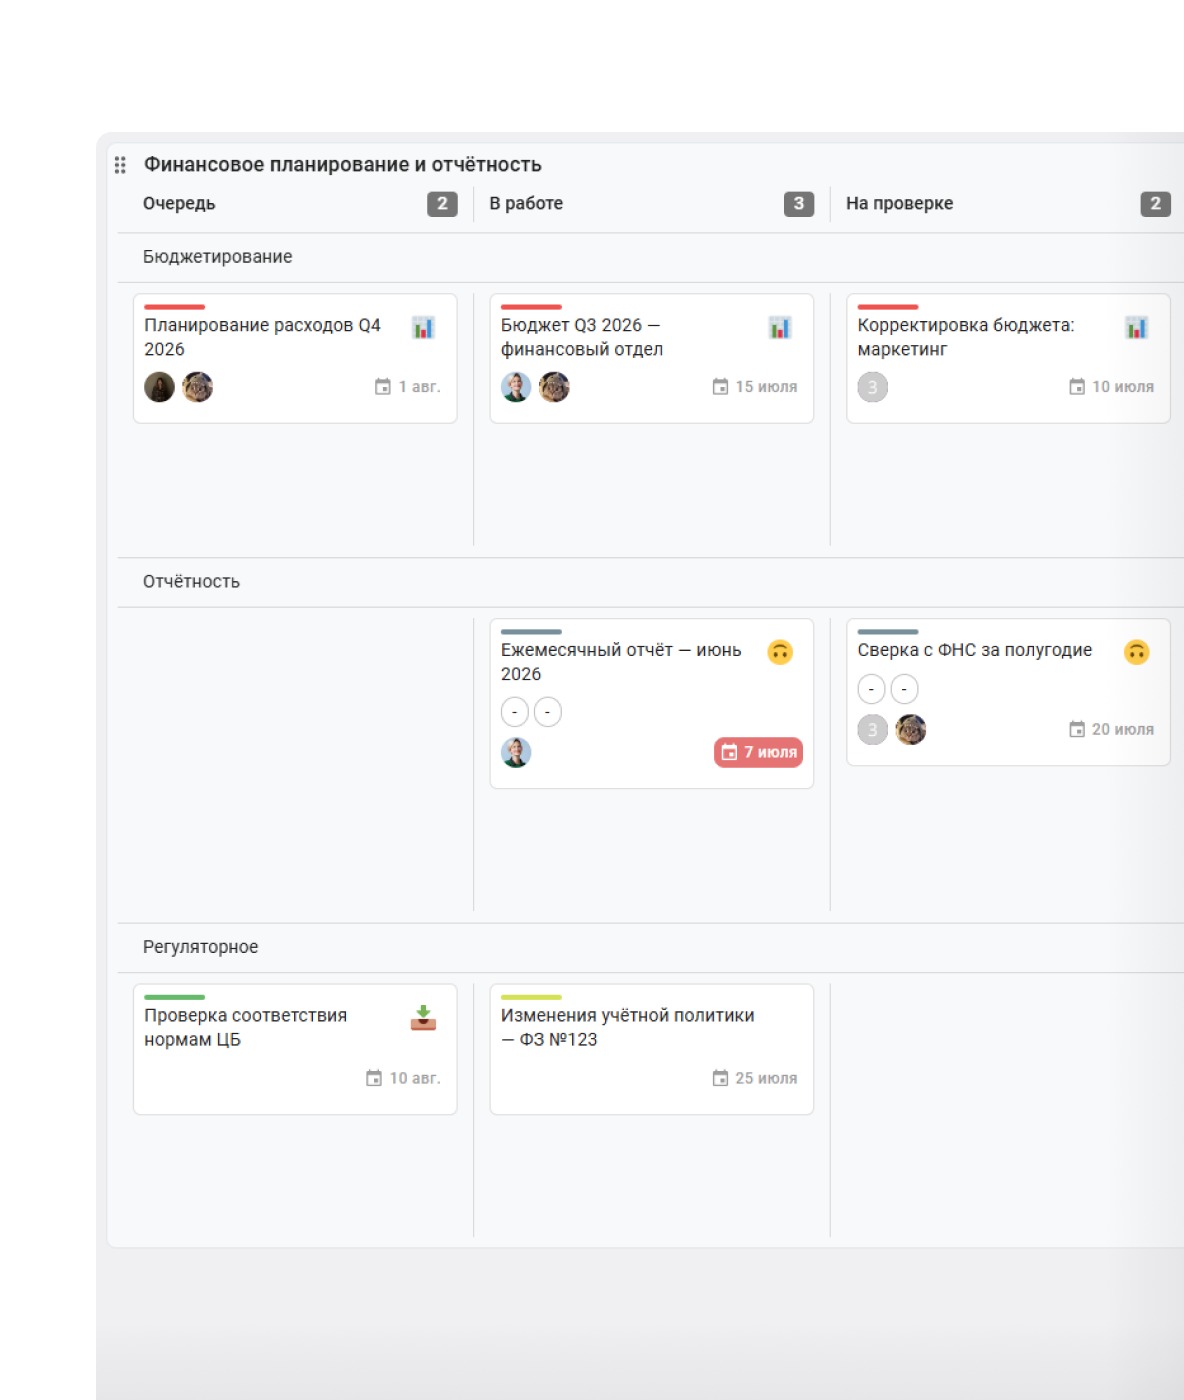
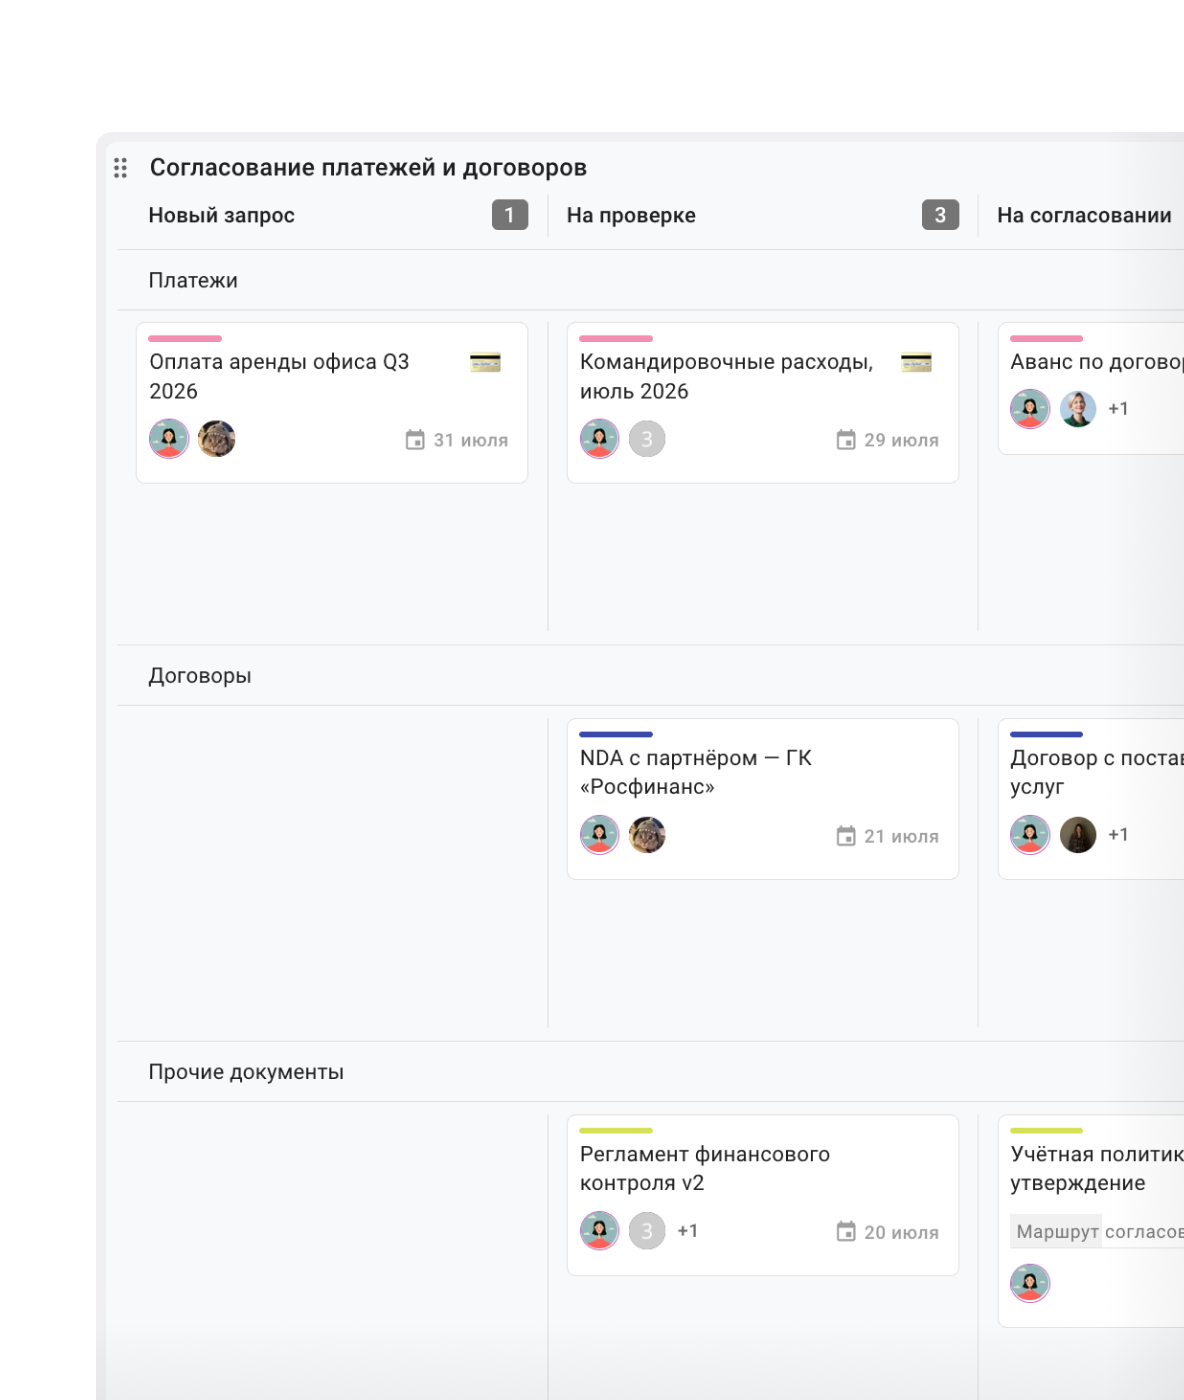
Кайтен для финансов и банков: CTA-блок, контейнер 1216, обновление картинок аккордеона
- добавлен CTA-блок «Покажем Кайтен на ваших процессах» с планшет-мокапом
- кнопки под разделом подразделений, ширина блоков на десктопе 1216
- обновлены assets/accordion/1.png и 4.png
- множество мелких правок вёрстки (отступы, переносы, скругления, адаптив)

diff --git a/Кайтен для финансов и банков/index.html b/Кайтен для финансов и банков/index.html
@@ -7,7 +7,7 @@
 <link rel="preconnect" href="https://fonts.googleapis.com">
 <link rel="preconnect" href="https://fonts.gstatic.com" crossorigin>
 <link rel="stylesheet" href="https://fonts.googleapis.com/css2?family=Roboto:wght@400;500;600&display=swap">
-<link rel="stylesheet" href="styles.css?v=131">
+<link rel="stylesheet" href="styles.css?v=153">
 </head>
 <body>
 
@@ -97,7 +97,7 @@
             </div>
             <div class="col">
               <div class="card">
-                <div class="ct">Корректировка бюджета — маркетинг</div>
+                <div class="ct">Бюджет на&nbsp;продвижение</div>
                 <div class="tags"><span class="tag t-urg">Маркетинг</span></div>
                 <div class="foot"><span class="avs"><span class="av" style="background:#b88ac9"></span></span><span class="due"><svg width="13" height="13" viewBox="0 0 24 24" fill="none" stroke="currentColor" stroke-width="2" stroke-linecap="round" stroke-linejoin="round"><path d="M8 2v4M16 2v4"/><rect x="3" y="4" width="18" height="18" rx="2"/><path d="M3 10h18"/></svg>15&nbsp;июля</span></div>
               </div>
@@ -138,7 +138,7 @@
             <div class="col"></div>
           </div>
           <div class="lane lane--foot">
-            <span class="lnm">Регуляторика</span><span class="cnt2">2</span>
+            <span class="lnm">Регулярное</span><span class="cnt2">2</span>
             <span class="chev"><svg width="18" height="18" viewBox="0 0 24 24" fill="none" stroke="currentColor" stroke-width="2" stroke-linecap="round" stroke-linejoin="round"><path d="M18 15l-6-6-6 6"/></svg></span>
           </div>
           <div class="lanebody">
@@ -223,7 +223,7 @@
       </div>
       <div class="acc-item open">
         <button class="acc-head" type="button"><span class="acc-title">Статус задач и&nbsp;согласований обновляется в&nbsp;реальном времени</span><span class="acc-ic" aria-hidden="true"><svg viewBox="0 0 24 24" fill="none" stroke="currentColor" stroke-width="2" stroke-linecap="round" stroke-linejoin="round"><path d="M6 9l6 6 6-6"/></svg></span></button>
-        <div class="acc-body"><p>Открыли нужное пространство — сразу видно, что&nbsp;в&nbsp;работе, что&nbsp;ждет подписи, что&nbsp;зависло. Статус обновляется, когда&nbsp;двигается работа, а&nbsp;не&nbsp;когда&nbsp;вы&nbsp;спрашиваете</p><img class="acc-bmedia" src="assets/accordion/1.png" alt="" loading="lazy"></div>
+        <div class="acc-body"><p>Открыли нужное пространство — сразу видно, что&nbsp;в&nbsp;работе, что&nbsp;ждет подписи, что&nbsp;зависло. Статус обновляется, когда&nbsp;двигается работа, а&nbsp;не&nbsp;когда&nbsp;вы&nbsp;спрашиваете</p><img class="acc-bmedia" src="assets/accordion/1.png?v=2" alt="" loading="lazy"></div>
       </div>
       <div class="acc-item">
         <button class="acc-head" type="button"><span class="acc-title">Отчеты собираются в&nbsp;2&nbsp;клика</span><span class="acc-ic" aria-hidden="true"><svg viewBox="0 0 24 24" fill="none" stroke="currentColor" stroke-width="2" stroke-linecap="round" stroke-linejoin="round"><path d="M6 9l6 6 6-6"/></svg></span></button>
@@ -235,7 +235,7 @@
       </div>
       <div class="acc-item">
         <button class="acc-head" type="button"><span class="acc-title">Обращения коллег сразу попадают на&nbsp;доску</span><span class="acc-ic" aria-hidden="true"><svg viewBox="0 0 24 24" fill="none" stroke="currentColor" stroke-width="2" stroke-linecap="round" stroke-linejoin="round"><path d="M6 9l6 6 6-6"/></svg></span></button>
-        <div class="acc-body"><p>Запрос на&nbsp;оплату, согласование договора, вопрос по&nbsp;отчетности — приходит через форму или&nbsp;почту и&nbsp;сразу становится задачей с&nbsp;автором, датой и&nbsp;статусом. Ничего не&nbsp;теряется в&nbsp;переписке</p><img class="acc-bmedia" src="assets/accordion/4.png" alt="" loading="lazy"></div>
+        <div class="acc-body"><p>Запрос на&nbsp;оплату, согласование договора, вопрос по&nbsp;отчетности — приходит через форму или&nbsp;почту и&nbsp;сразу становится задачей с&nbsp;автором, датой и&nbsp;статусом. Ничего не&nbsp;теряется в&nbsp;переписке</p><img class="acc-bmedia" src="assets/accordion/4.png?v=2" alt="" loading="lazy"></div>
       </div>
       <div class="acc-cta">
         <div class="hero__cta">
@@ -245,10 +245,10 @@
       </div>
     </div>
     <div class="acc-media">
-      <div class="acc-panel on"><img src="assets/accordion/1.png" alt="" loading="lazy"></div>
+      <div class="acc-panel on"><img src="assets/accordion/1.png?v=2" alt="" loading="lazy"></div>
       <div class="acc-panel"><img src="assets/accordion/2.png" alt="" loading="lazy"></div>
       <div class="acc-panel"><img src="assets/accordion/3.png" alt="" loading="lazy"></div>
-      <div class="acc-panel"><img src="assets/accordion/4.png" alt="" loading="lazy"></div>
+      <div class="acc-panel"><img src="assets/accordion/4.png?v=2" alt="" loading="lazy"></div>
     </div>
   </div>
   <div class="acc-cta acc-cta--tablet"><div class="hero__cta"><a class="btn btn--lg btn--fill" href="https://kaiten.ru">Попробовать Кайтен</a><a class="btn btn--lg btn--outline" href="#cta">Запросить демонстрацию</a></div></div>
@@ -290,13 +290,29 @@
 
 </div></section>
 
+<!-- CTA после блока соответствия -->
+<section class="s" id="demo-cta"><div class="container">
+  <div class="dcta">
+    <div class="dcta__left">
+      <div class="dcta__copy">
+        <h2 class="dcta__title">Покажем Кайтен на&nbsp;ваших процессах</h2>
+        <p class="dcta__desc">Разберем сервис на&nbsp;примере задач вашего финансового <br class="dcta-d-br">блока, а&nbsp;не&nbsp;на&nbsp;шаблонах. Это&nbsp;бесплатно</p>
+      </div>
+      <a class="btn btn--lg btn--fill" href="#cta">Заказать демо</a>
+    </div>
+    <div class="dcta__media" aria-hidden="true">
+      <div class="tabgad"><div class="tabgad__screen"><img src="assets/tabs/1.png" alt="" loading="lazy"></div></div>
+    </div>
+  </div>
+</div></section>
+
 <!-- SECTION 3: вся организация -->
 <section class="s s--alt" id="depsec"><div class="container">
   <div class="sh sh--center s-head">
     <h2 class="sh__heading">Кайтен работает для&nbsp;всей финансовой организации</h2>
     <p class="sh__desc">Каждое подразделение ведет работу на&nbsp;своем пространстве. Гибкая система доступов и&nbsp;ролей позволяет видеть командам только то, что&nbsp;можно</p>
   </div>
-  <div class="stabs" id="dep-tabs"><div class="stabs__tabs"><div class="stabs__tabgroup" role="tablist"><button type="button" role="tab" class="stabs__tab on" data-tab="0">Работа с клиентами</button><button type="button" role="tab" class="stabs__tab" data-tab="1">ИТ-подразделение</button><button type="button" role="tab" class="stabs__tab" data-tab="2">Юридический блок</button><button type="button" role="tab" class="stabs__tab" data-tab="3">Операционный блок</button><button type="button" role="tab" class="stabs__tab" data-tab="4">Руководство</button></div></div><div class="stabs__panels"><div class="stp on" data-panel="0" role="tabpanel"><div class="stabs__card"><div class="stabs__row"><div class="stabs__text"><h3>Отдел по работе с клиентами</h3><p>Заявка от клиента — с сайта, по почте или в мессенджере — автоматически становится задачей с ответственным сотрудником. Ни одно обращение не потеряется и не останется без ответа</p><a class="stabs__cta" href="https://elli.kaiten.ru/space/800749/boards" target="_blank" rel="noopener">Открыть пространство <svg viewBox="0 0 24 24" fill="none" stroke="currentColor" stroke-width="2" stroke-linecap="round" stroke-linejoin="round"><path d="M5 12h14M13 6l6 6-6 6"/></svg></a></div><div class="stabs__imgwrap"><div class="stabs__img" aria-hidden="true"><img src="assets/tabs/1.png" alt="" loading="lazy"></div></div></div></div></div><div class="stp" data-panel="1" role="tabpanel"><div class="stabs__card"><div class="stabs__row"><div class="stabs__text"><h3>ИТ-подразделение</h3><p>Разработка идет циклами по 1–2 недели. Финансовый отдел в любой момент видит, на каком этапе их запрос — не нужно писать ИТ-команде с вопросом «когда будет готово»</p><a class="stabs__cta" href="https://elli.kaiten.ru/space/790445/boards" target="_blank" rel="noopener">Открыть пространство <svg viewBox="0 0 24 24" fill="none" stroke="currentColor" stroke-width="2" stroke-linecap="round" stroke-linejoin="round"><path d="M5 12h14M13 6l6 6-6 6"/></svg></a></div><div class="stabs__imgwrap"><div class="stabs__img" aria-hidden="true"><img src="assets/tabs/2.png" alt="" loading="lazy"></div></div></div></div></div><div class="stp" data-panel="2" role="tabpanel"><div class="stabs__card"><div class="stabs__row"><div class="stabs__text"><h3>Юридический блок</h3><p>Задачи по регуляторным изменениям или согласованиям договоров не теряются среди десятков писем в почте</p><a class="stabs__cta" href="https://elli.kaiten.ru/space/804284/boards" target="_blank" rel="noopener">Открыть пространство <svg viewBox="0 0 24 24" fill="none" stroke="currentColor" stroke-width="2" stroke-linecap="round" stroke-linejoin="round"><path d="M5 12h14M13 6l6 6-6 6"/></svg></a></div><div class="stabs__imgwrap"><div class="stabs__img" aria-hidden="true"><img src="assets/tabs/3.png" alt="" loading="lazy"></div></div></div></div></div><div class="stp" data-panel="3" role="tabpanel"><div class="stabs__card"><div class="stabs__row"><div class="stabs__text"><h3>Операционный блок</h3><p>Закрытие отчетного периода и плановые сверки идут по заранее заданным шагам — система не даст пропустить ни один пункт</p><a class="stabs__cta" href="https://elli.kaiten.ru/space/509234/boards" target="_blank" rel="noopener">Открыть пространство <svg viewBox="0 0 24 24" fill="none" stroke="currentColor" stroke-width="2" stroke-linecap="round" stroke-linejoin="round"><path d="M5 12h14M13 6l6 6-6 6"/></svg></a></div><div class="stabs__imgwrap"><div class="stabs__img" aria-hidden="true"><img src="assets/tabs/4.png" alt="" loading="lazy"></div></div></div></div></div><div class="stp" data-panel="4" role="tabpanel"><div class="stabs__card"><div class="stabs__row"><div class="stabs__text"><h3>Руководство</h3><p>Открыли отчет — увидели что сделано, что в работе, что просрочено. Детали по конкретному отделу или задаче доступны в любой момент, без звонков и презентаций</p><a class="stabs__cta" href="https://elli.kaiten.ru/space/638538/boards" target="_blank" rel="noopener">Открыть пространство <svg viewBox="0 0 24 24" fill="none" stroke="currentColor" stroke-width="2" stroke-linecap="round" stroke-linejoin="round"><path d="M5 12h14M13 6l6 6-6 6"/></svg></a></div><div class="stabs__imgwrap"><div class="stabs__img" aria-hidden="true"><img src="assets/tabs/5.png" alt="" loading="lazy"></div></div></div></div></div></div><div class="stabs__nav" role="group" aria-label="Листать подразделения"><button type="button" class="stabs__navbtn" data-nav="prev" aria-label="Предыдущее"><svg viewBox="0 0 24 24" fill="none" stroke="currentColor" stroke-width="2" stroke-linecap="round" stroke-linejoin="round"><path d="M15 18l-6-6 6-6"/></svg></button><span class="stabs__counter"><b class="stabs__cur">1</b> / 5</span><button type="button" class="stabs__navbtn" data-nav="next" aria-label="Следующее"><svg viewBox="0 0 24 24" fill="none" stroke="currentColor" stroke-width="2" stroke-linecap="round" stroke-linejoin="round"><path d="M9 18l6-6-6-6"/></svg></button></div></div>
+  <div class="stabs" id="dep-tabs"><div class="stabs__tabs"><div class="stabs__tabgroup" role="tablist"><button type="button" role="tab" class="stabs__tab on" data-tab="0">Работа с клиентами</button><button type="button" role="tab" class="stabs__tab" data-tab="1">ИТ-подразделение</button><button type="button" role="tab" class="stabs__tab" data-tab="2">Юридический блок</button><button type="button" role="tab" class="stabs__tab" data-tab="3">Операционный блок</button><button type="button" role="tab" class="stabs__tab" data-tab="4">Руководство</button></div></div><div class="stabs__panels"><div class="stp on" data-panel="0" role="tabpanel"><div class="stabs__card"><div class="stabs__row"><div class="stabs__text"><h3>Отдел по работе с клиентами</h3><p>Заявка от клиента — с сайта, по почте или в мессенджере — автоматически становится задачей с ответственным сотрудником. Ни одно обращение не потеряется и не останется без ответа</p></div><div class="stabs__imgwrap"><div class="stabs__img" aria-hidden="true"><img src="assets/tabs/1.png" alt="" loading="lazy"></div></div></div></div></div><div class="stp" data-panel="1" role="tabpanel"><div class="stabs__card"><div class="stabs__row"><div class="stabs__text"><h3>ИТ-подразделение</h3><p>Разработка идет циклами по 1–2 недели. Финансовый отдел в любой момент видит, на каком этапе их запрос — не нужно писать ИТ-команде с вопросом «когда будет готово»</p></div><div class="stabs__imgwrap"><div class="stabs__img" aria-hidden="true"><img src="assets/tabs/2.png" alt="" loading="lazy"></div></div></div></div></div><div class="stp" data-panel="2" role="tabpanel"><div class="stabs__card"><div class="stabs__row"><div class="stabs__text"><h3>Юридический блок</h3><p>Задачи по регуляторным изменениям или согласованиям договоров не теряются среди десятков писем в почте</p></div><div class="stabs__imgwrap"><div class="stabs__img" aria-hidden="true"><img src="assets/tabs/3.png" alt="" loading="lazy"></div></div></div></div></div><div class="stp" data-panel="3" role="tabpanel"><div class="stabs__card"><div class="stabs__row"><div class="stabs__text"><h3>Операционный блок</h3><p>Закрытие отчетного периода и плановые сверки идут по заранее заданным шагам — система не даст пропустить ни один пункт</p></div><div class="stabs__imgwrap"><div class="stabs__img" aria-hidden="true"><img src="assets/tabs/4.png" alt="" loading="lazy"></div></div></div></div></div><div class="stp" data-panel="4" role="tabpanel"><div class="stabs__card"><div class="stabs__row"><div class="stabs__text"><h3>Руководство</h3><p>Открыли отчет — увидели что сделано, что в работе, что просрочено. Детали по конкретному отделу или задаче доступны в любой момент, без звонков и презентаций</p></div><div class="stabs__imgwrap"><div class="stabs__img" aria-hidden="true"><img src="assets/tabs/5.png" alt="" loading="lazy"></div></div></div></div></div></div><div class="stabs__nav" role="group" aria-label="Листать подразделения"><button type="button" class="stabs__navbtn" data-nav="prev" aria-label="Предыдущее"><svg viewBox="0 0 24 24" fill="none" stroke="currentColor" stroke-width="2" stroke-linecap="round" stroke-linejoin="round"><path d="M15 18l-6-6 6-6"/></svg></button><span class="stabs__counter"><b class="stabs__cur">1</b> / 5</span><button type="button" class="stabs__navbtn" data-nav="next" aria-label="Следующее"><svg viewBox="0 0 24 24" fill="none" stroke="currentColor" stroke-width="2" stroke-linecap="round" stroke-linejoin="round"><path d="M9 18l6-6-6-6"/></svg></button></div></div><div class="stabs__actions"><a class="btn btn--lg btn--fill" href="https://kaiten.ru">Попробовать Кайтен</a><a class="btn btn--lg btn--outline" href="#cta">Запросить демонстрацию</a></div>
 </div></section>
 
 <!-- SECTION 4: один инструмент -->

diff --git a/Кайтен для финансов и банков/styles.css b/Кайтен для финансов и банков/styles.css
@@ -67,7 +67,7 @@ a{color:inherit;text-decoration:none}
 .sh__desc{font-family:var(--font);font-size:var(--fs-md);font-weight:var(--fw-reg);line-height:var(--lh-md);letter-spacing:var(--ls);color:#2d2d2d}
 section.s{padding:var(--sp-12) 0}
 @media(min-width:768px) and (max-width:1279px){section.s{padding:var(--sp-16) 0}#features{padding-top:var(--sp-16)}#features .s-head,#start .s-head,#templates .s-head,#compliance .s-head,#depsec .s-head{margin-bottom:var(--sp-8)}#faq{padding-top:var(--sp-16);padding-bottom:var(--sp-16)}#depsec{padding-top:var(--sp-16);padding-bottom:var(--sp-16)}#control{padding-bottom:var(--sp-24)}.s.revx .revx__in{gap:var(--sp-8);padding-left:var(--sp-6)}.s.revx .revx__track{gap:var(--sp-6)}.s.revx{padding-bottom:var(--sp-8)}}
-@media(min-width:1280px){section.s{padding:var(--sp-24) 0}section.hero{padding-top:var(--sp-12)}.s.revx{padding-top:var(--sp-24);padding-bottom:var(--sp-24)}#control{padding-bottom:128px}#compliance{padding-top:128px}#documents{padding-bottom:var(--sp-24)}#depsec{padding-top:var(--sp-24);padding-bottom:var(--sp-24)}#features{padding-top:var(--sp-24)}#cta{padding-bottom:var(--sp-24)}#faq{padding-top:var(--sp-24);padding-bottom:var(--sp-24)}}
+@media(min-width:1280px){section.s{padding:var(--sp-24) 0}section.hero{padding-top:var(--sp-12)}.s.revx{padding-top:var(--sp-24);padding-bottom:var(--sp-24)}#control{padding-bottom:128px}#compliance{padding-top:128px;padding-bottom:0}#documents{padding-bottom:var(--sp-24)}#depsec{padding-top:var(--sp-24);padding-bottom:var(--sp-24)}#features{padding-top:var(--sp-24)}#cta{padding-bottom:var(--sp-24)}#faq{padding-top:var(--sp-24);padding-bottom:var(--sp-24)}}
 .s--alt{background:var(--surface-section)}
 .s-head{margin-bottom:var(--sp-16)}
 /* HERO */
@@ -1037,6 +1037,26 @@ section.s{padding:var(--sp-12) 0}
 .hsi-screen__visual{width:100%;display:flex;justify-content:center}
 @media(max-width:980px){.hsi-screen__grid{gap:var(--sp-10,40px)}.hsi-screen__copy{max-width:680px}}
 .hsi-t-br{display:none}
+.dcta-d-br{display:none}
+@media(min-width:1280px){.dcta-d-br{display:inline}}
+.stabs__actions{display:flex;flex-wrap:wrap;gap:var(--sp-3);justify-content:center;margin-top:48px}
+#depsec{padding-bottom:96px}
+@media(min-width:768px) and (max-width:1279px){.stabs__actions{margin-top:32px}#depsec{padding-bottom:64px}#compliance{padding-bottom:0}}
+@media(max-width:767px){.stabs__actions{margin-top:24px}#depsec{padding-bottom:48px}}
+.dcta{background:linear-gradient(135deg,#ece0ff,#cdecff);border-radius:var(--radius-3xl,24px);padding:var(--sp-12,48px) var(--sp-10,40px);display:flex;flex-direction:column;gap:var(--sp-8,32px);align-items:stretch;overflow:hidden}
+.dcta__left{display:flex;flex-direction:column;align-items:flex-start;gap:var(--sp-6,24px)}
+.dcta__copy{display:flex;flex-direction:column;gap:var(--sp-3,12px);max-width:560px}
+.dcta__title{font-size:var(--fs-4xl,36px);line-height:var(--lh-4xl,40px);font-weight:var(--fw-semi,600);color:#2d2d2d;margin:0;text-align:left}
+.dcta__desc{font-size:var(--fs-lg,18px);line-height:var(--lh-lg,28px);color:#2d2d2d;margin:0;text-align:left}
+.dcta__media{display:flex;justify-content:center;min-width:0}
+.tabgad{position:relative;width:100%;max-width:352px;aspect-ratio:3/2;background:#fff;border:1px solid rgba(45,45,45,.08);border-radius:12px;padding:8px;box-shadow:0 20px 50px -26px rgba(45,45,45,.3)}
+.tabgad__screen{width:100%;height:100%;border-radius:8px;overflow:hidden;background:#fff;border:1px solid #eee}
+.tabgad__screen img{width:125%;height:auto;max-width:none;object-position:top left;display:block}
+@media(min-width:900px){.dcta{flex-direction:row;align-items:center;justify-content:flex-start;gap:var(--sp-12,48px)}.dcta__left{flex:0 1 auto;min-width:0}.dcta__media{flex:0 0 auto;max-width:352px}}
+@media(min-width:768px) and (max-width:1279px){.dcta__copy{max-width:440px}.dcta__desc{font-size:var(--fs-md,16px);line-height:var(--lh-md,24px)}}
+@media(min-width:1280px){.dcta__media{margin-left:56px}#demo-cta{padding-bottom:96px}}
+@media(min-width:768px) and (max-width:899px){.dcta__left{align-items:center}.dcta__title,.dcta__desc{text-align:center}}
+@media(max-width:767px){#demo-cta{padding-top:var(--sp-4,16px)}.dcta{padding:var(--sp-8,32px) var(--sp-5,20px);border-radius:var(--radius-2xl,16px)}.dcta__title{font-size:var(--fs-2xl,24px);line-height:var(--lh-2xl,32px)}.dcta__desc{font-size:var(--fs-md,16px);line-height:var(--lh-md,24px)}.dcta__left>.btn{align-self:center}}
 @media(min-width:768px) and (max-width:1279px){.hsi-screen__container{padding-left:24px;padding-right:24px}.hsi-screen__copy{max-width:none}.hsi-screen__title{font-size:42px;line-height:46px}.hsi-t-br{display:inline}}
 @media(min-width:768px) and (max-width:1279px){.hsi-screen{padding-top:36px}}
 @media(max-width:767px){.hsi-screen{padding:var(--sp-6,24px) 0 var(--sp-12,48px)}.hsi-screen__title{font-size:var(--fs-3xl,30px);line-height:var(--lh-3xl,36px)}.hsi-screen__sub{font-size:var(--fs-md,16px)}.hsi-screen__copy{text-align:left}.hsi-screen__cta{justify-content:center}}
@@ -1177,7 +1197,7 @@ section.s{padding:var(--sp-12) 0}
 .stabs__img{width:100%;overflow:hidden;border-radius:var(--radius-lg);background:var(--surface-section);display:flex}
 .stabs__img img{display:block;width:100%;height:auto;border-radius:var(--radius-lg)}
 .stabs__nav{margin-top:var(--sp-6);display:flex;align-items:center;justify-content:center;gap:var(--sp-4)}
-@media(min-width:768px) and (max-width:1023px){.stabs__nav{margin-top:var(--sp-8)}#depsec{padding-bottom:var(--sp-8)}}
+@media(min-width:768px) and (max-width:1023px){.stabs__nav{margin-top:var(--sp-8)}}
 .stabs__navbtn{width:40px;height:40px;border-radius:9999px;border:1px solid var(--border-default);background:#fff;display:flex;align-items:center;justify-content:center;cursor:pointer;color:var(--brand-100);transition:background .18s,border-color .18s,color .18s}
 .stabs__navbtn:hover:not(:disabled){background:var(--brand-12);border-color:var(--brand-48k)}
 .stabs__navbtn:disabled{opacity:.45;cursor:default}
@@ -1212,6 +1232,8 @@ section.s{padding:var(--sp-12) 0}
 @media(max-width:1023px){.kbcta{flex-direction:column;gap:var(--sp-8);padding:var(--sp-8) var(--sp-8) 0}.kbcta__left{padding-bottom:var(--sp-8)}.kbcta__title{font-size:var(--fs-2xl);line-height:var(--lh-2xl)}.kbcta__media{width:100%;flex:none;min-height:0}.kbcta__pic{position:static;transform:none;margin-inline:auto}}
 @media(max-width:767px){.kbcta{flex-direction:column;gap:var(--sp-2);padding:var(--sp-8) var(--sp-6) 0}.kbcta__left{padding-bottom:var(--sp-8)}.kbcta__left>.btn{align-self:center}.kbcta__media{width:100%;flex:none;min-height:0}.kbcta__checks{grid-template-columns:1fr 1fr;gap:var(--sp-2) var(--sp-4)}.kbcta__col{min-width:0}.kbcta__desc,.kbcta__check{font-size:var(--fs-sm);line-height:var(--lh-sm)}.kbcta__ic{width:16px;height:16px}.kbcta__ic svg{width:10px;height:10px}.kbcta__glow{right:auto;left:50%;top:auto;bottom:-220px;transform:translateX(-50%)}}
 @media(max-width:520px){.kbcta{padding:var(--sp-12) var(--sp-6) 0}.kbcta__checks{grid-template-columns:1fr 1fr;gap:var(--sp-2) var(--sp-4)}.kbcta__col{min-width:0}.kbcta__media{min-height:0}}
+/* пункты в 1 строку там, где помещаются (≥768); на мобилке — перенос как есть */
+@media(min-width:768px){.kbcta__checks{grid-template-columns:max-content max-content;justify-content:start}.kbcta__check{white-space:nowrap}}
 
 /* Trust-line — иконки как на первом экране скрам-лендинга (violet outline + текст) */
 .trust-line{overflow:hidden;position:relative;color:#424242;font-size:var(--fs-md);line-height:22px;letter-spacing:var(--ls);-webkit-mask-image:linear-gradient(90deg,transparent,#000 7%,#000 93%,transparent);mask-image:linear-gradient(90deg,transparent,#000 7%,#000 93%,transparent)}